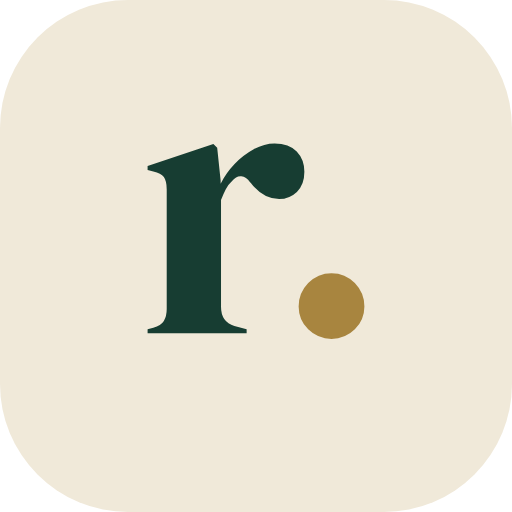
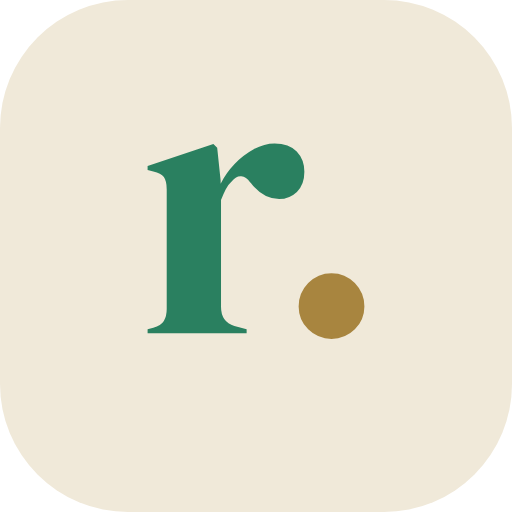
Icône : « r » en vert moyen (même luminance que le dessin d'Occlu) pour la variante sombre d'iOS
Claude-Session: https://claude.ai/code/session_01VWJn8DpqDdrMmeahULjp92

Changed region(s): [[0.2812, 0.2812, 0.5938, 0.6562]]

diff --git a/CLAUDE.md b/CLAUDE.md
@@ -183,7 +183,7 @@ Espace/Entrée/flèches/1-4 pour retourner et noter, Ctrl+Z pour annuler ; lettr
 - **Couleur de contraste supprimée** : le vert est imposé. Le script de la couleur est neutralisé (`apply()` et `addSettings()` retournent tout de suite, la clé `revis-accent` est effacée au chargement) ; la ligne et la sous-page `acc` ont disparu des Réglages.
 - **Typographie** : New York (`ui-serif`) pour les titres `h1` et le logo, SF Pro pour le reste. Titre de l'accueil : `rev<span class="rvd">.</span>`.
 - **Matières** : surfaces ivoire quasi pleines pour le contenu (`--gp-fill` .94) ; verre seulement sur la barre du haut, la barre du bas et les feuilles. Fond : voile vert et voile laiton très discrets (`--nv-bg`), **taches animées `#mesh i` supprimées** (`display:none`).
-- **Icône** (18/10/2026, monogramme « r. » choisi par Idriss ; DM Serif Display, police OFL, tracé converti en chemin ; fond ivoire uni `#f0e9d9`, « r » vert `#173d32`, point laiton `#a8853f`). **Construite comme celle d'Occlu** (dépôt `bertOPLM23/Occlu`, dont l'icône s'assombrit sur l'iPad d'Idriss) : `apple-touch-icon.png` 180×180 RGB opaque ; **`manifest.webmanifest`** (nom rev., `display: standalone`, fond `#f7f3ea`) déclarant `icon-192.png` et `icon-512.png` (RGBA, carré arrondi à 25 %, coins transparents), `icon-maskable-512.png` (opaque plein cadre, dessin réduit à 78 %, `purpose: maskable`) et `favicon.svg` (même carré ivoire arrondi) ; balises `apple-mobile-web-app-capable` et `mobile-web-app-capable` ; `<link rel="icon">` et `apple-touch-icon` pointent vers les fichiers. **Analyse du 18/10/2026** : les `apple-touch-icon` d'Occlu et de rev. étaient alors du même type (180 RGB opaque, fond uni) ; la seule différence restante était le manifeste (+ icônes à transparence), le service worker d'Occlu et ces balises. Essais précédents, tous ratés (sans manifeste) : verte opaque en dégradé ; entièrement transparente (fond noir même en clair) ; ivoire en dégradé ; ivoire + coins transparents ; ivoire uni ; ivoire uni en fichier séparé. **Résultat de l'étape « manifeste » : à confirmer par Idriss.** Il doit retirer rev. de l'écran d'accueil puis la rajouter à chaque changement d'icône.
+- **Icône** (18/10/2026, monogramme « r. » choisi par Idriss ; DM Serif Display, police OFL, tracé converti en chemin ; fond ivoire uni `#f0e9d9`, « r » vert moyen `#2a8060` (luminance 0,168, **la même que le rose du cerveau d'Occlu `#C83D70`** ; le vert profond `#173d32`, luminance 0,037, aurait disparu sur un fond noir et iOS refuse alors probablement d'inverser), point laiton `#a8853f`). **Construite comme celle d'Occlu** (dépôt `bertOPLM23/Occlu`, dont l'icône s'assombrit sur l'iPad d'Idriss) : `apple-touch-icon.png` 180×180 RGB opaque ; **`manifest.webmanifest`** (nom rev., `display: standalone`, fond `#f7f3ea`) déclarant `icon-192.png` et `icon-512.png` (RGBA, carré arrondi à 25 %, coins transparents), `icon-maskable-512.png` (opaque plein cadre, dessin réduit à 78 %, `purpose: maskable`) et `favicon.svg` (même carré ivoire arrondi) ; balises `apple-mobile-web-app-capable` et `mobile-web-app-capable` ; `<link rel="icon">` et `apple-touch-icon` pointent vers les fichiers. **Analyse du 18/10/2026** : les `apple-touch-icon` d'Occlu et de rev. étaient alors du même type (180 RGB opaque, fond uni) ; la seule différence restante était le manifeste (+ icônes à transparence), le service worker d'Occlu et ces balises. Essais précédents, tous ratés (sans manifeste) : verte opaque en dégradé ; entièrement transparente (fond noir même en clair) ; ivoire en dégradé ; ivoire + coins transparents ; ivoire uni ; ivoire uni en fichier séparé. **Étape « manifeste » (vert profond) : ratée. Étape « vert moyen » : à confirmer par Idriss.** Il doit retirer rev. de l'écran d'accueil puis la rajouter à chaque changement d'icône.
 - Nom : `<title>` et `apple-mobile-web-app-title` = « rev. ». Le nom du projet Supabase (« Mes révisions ») ne change pas.
 - Contraste mesuré le 18/10/2026 (iPhone 390 px, clair et sombre : accueil, dossier, flashcard recto/verso, QCM avant/après, Réglages, Statistiques) : aucun texte sous 4,5:1, sauf le point laiton du logo (décoratif, 44 px).
 
